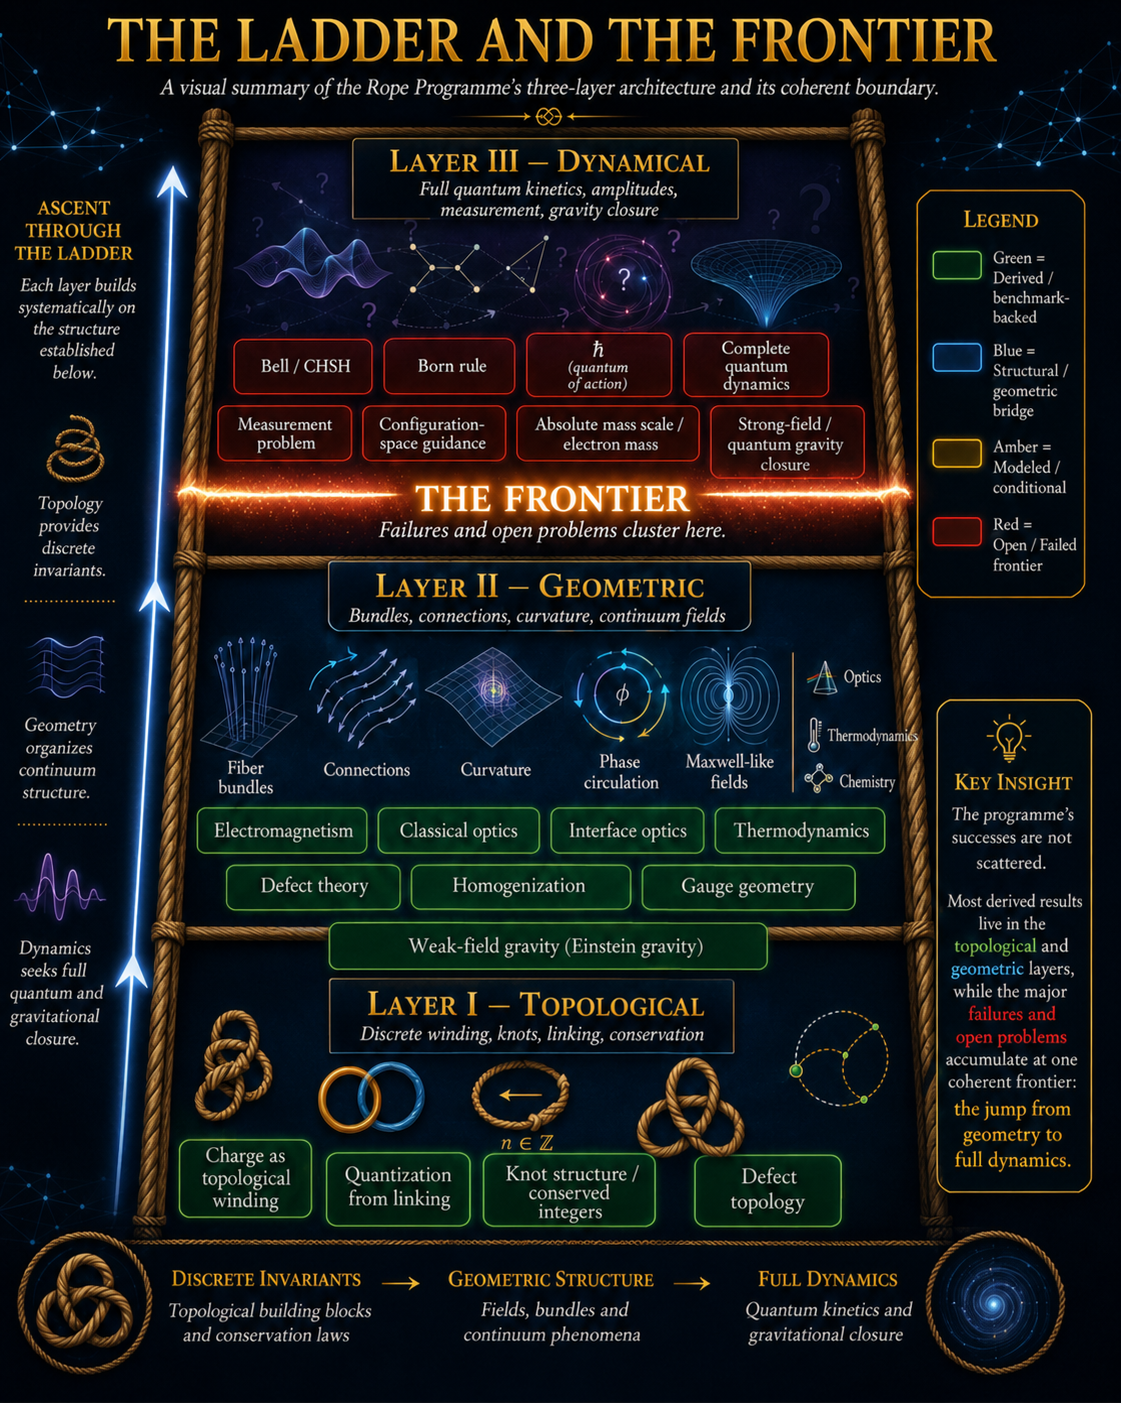
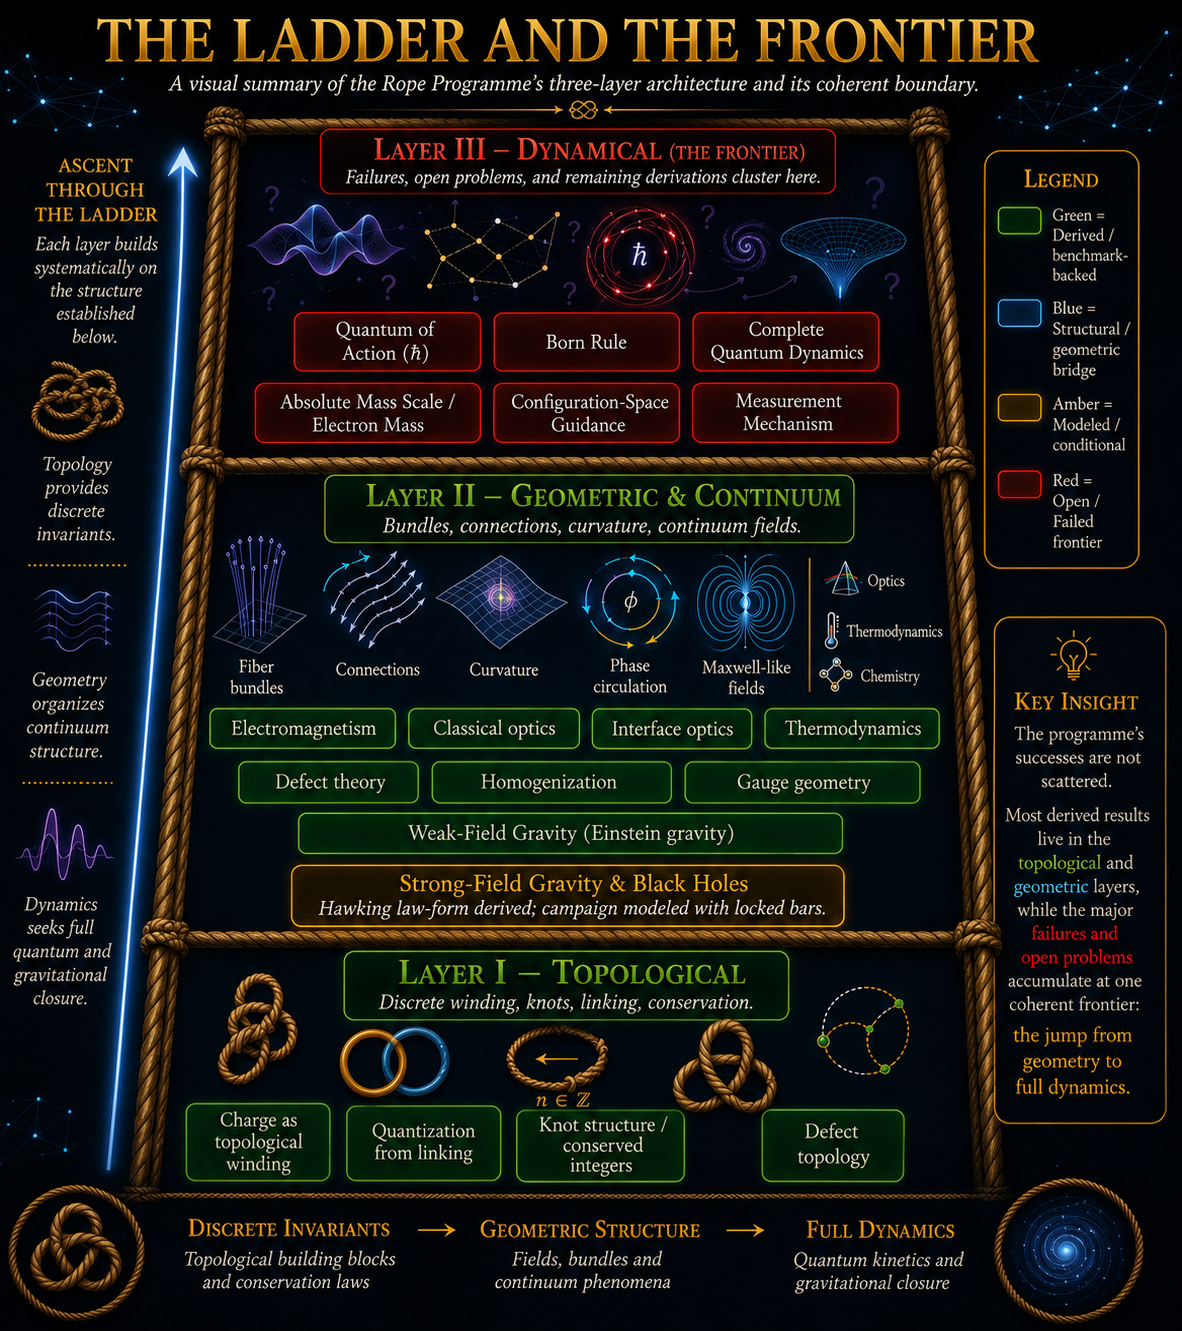
updated figures

diff --git a/figures/README.md b/figures/README.md
@@ -108,9 +108,9 @@ coefficient contested in-house" -- the black-hole campaign's honest status),
 and L6 all red: the frontier the footer promises. Ten green, six yellow, ten
 red -- the distribution is the argument.
 
-## rope_gravity_v2.png (3 Aug 2026) -- the current gravity figure
+## rope_gravity.png (3 Aug 2026) -- the current gravity figure
 
-Supersedes rope_gravity.png (kept for the record). Registry-faithful across
+Supersedes the original render (archived as rope_gravity_v1_archive.png). Registry-faithful across
 regimes: the isotropic weak-field metric psi = 1 + rs/4r with the derived
 classical table (1.751'' deflection, 43.0''/cy Mercury, Shapiro gamma = 1,
 Nordtvedt eta = 0; GRV-002/026/029); the strong-field campaign stated in the
@@ -120,10 +120,10 @@ statics derived, dynamics and thermodynamics MODELED with locked bars (yellow
 checks); and the Scope & Honesty box declining quantum gravity and the origin
 of mass. Consistent with rope_ladder_v2.png by construction.
 
-## rope_layers.png (3 Aug 2026) -- the three-layer architecture, publication grade
+## rope_ladder.png (3 Aug 2026) -- the three-layer architecture, publication grade
 
-Supersedes rope_ladder.png as THM-006's visual anchor (v1 kept for the
-record; that claim's registry entry documents the figure's own honesty
+THM-006's visual anchor, re-rendered at publication grade (the original is
+archived as rope_ladder_v1_archive.png; that claim's registry entry documents the figure's own honesty
 history, including the retirement of the original 4x enrichment magnitude --
 this render correctly states only the surviving sign-level claim). The 2026
 addition is the AMBER box: "Strong-Field Gravity & Black Holes -- Hawking
@@ -135,3 +135,27 @@ kept and counted (e.g. EM-011, GRV-009/010); the layer is where most DERIVED
 results live, not a zone without failures. Consistent with rope_ladder_v2.png
 (the per-sector status ladder) and rope_gravity_v2.png in vocabulary and
 color grammar.
+
+
+## Verdict note for the in-court annotations (3 Aug 2026, GRV-089..091)
+
+Both posters carry "the number is in court" / "coefficient contested
+in-house." THE CASE IS NOW CLOSED -- category error; both routes stand
+(pitch geometric at 0.23 kappa, rate thermodynamic; crackling-noise
+emitter). Until re-rendered, this note is the load-bearing correction.
+Re-render spec, one line each: rope_ladder_v2 strong-field annotation ->
+"Hawking's law-form derived; coefficient case closed -- both routes
+stand"; rope_gravity_v2 green check -> "Hawking's law-form derived
+(pitch geometric, rate thermodynamic; GRV-091)".
+
+
+## Canonicalization note (3 Aug 2026)
+
+The base names now carry the CURRENT art: rope_ladder.png is the
+publication-grade three-layer architecture (with the amber strong-field
+box) and rope_gravity.png is the corrected all-regimes gravity figure.
+Originals archived as *_v1_archive.png. rope_ladder_v2.png remains a
+SEPARATE figure (the per-sector status ladder, 10 green / 6 yellow / 10
+red). All document references use the base names, so every embed --
+including SURPRISES's opening map and THM-006's anchor -- now shows the
+current renders.
